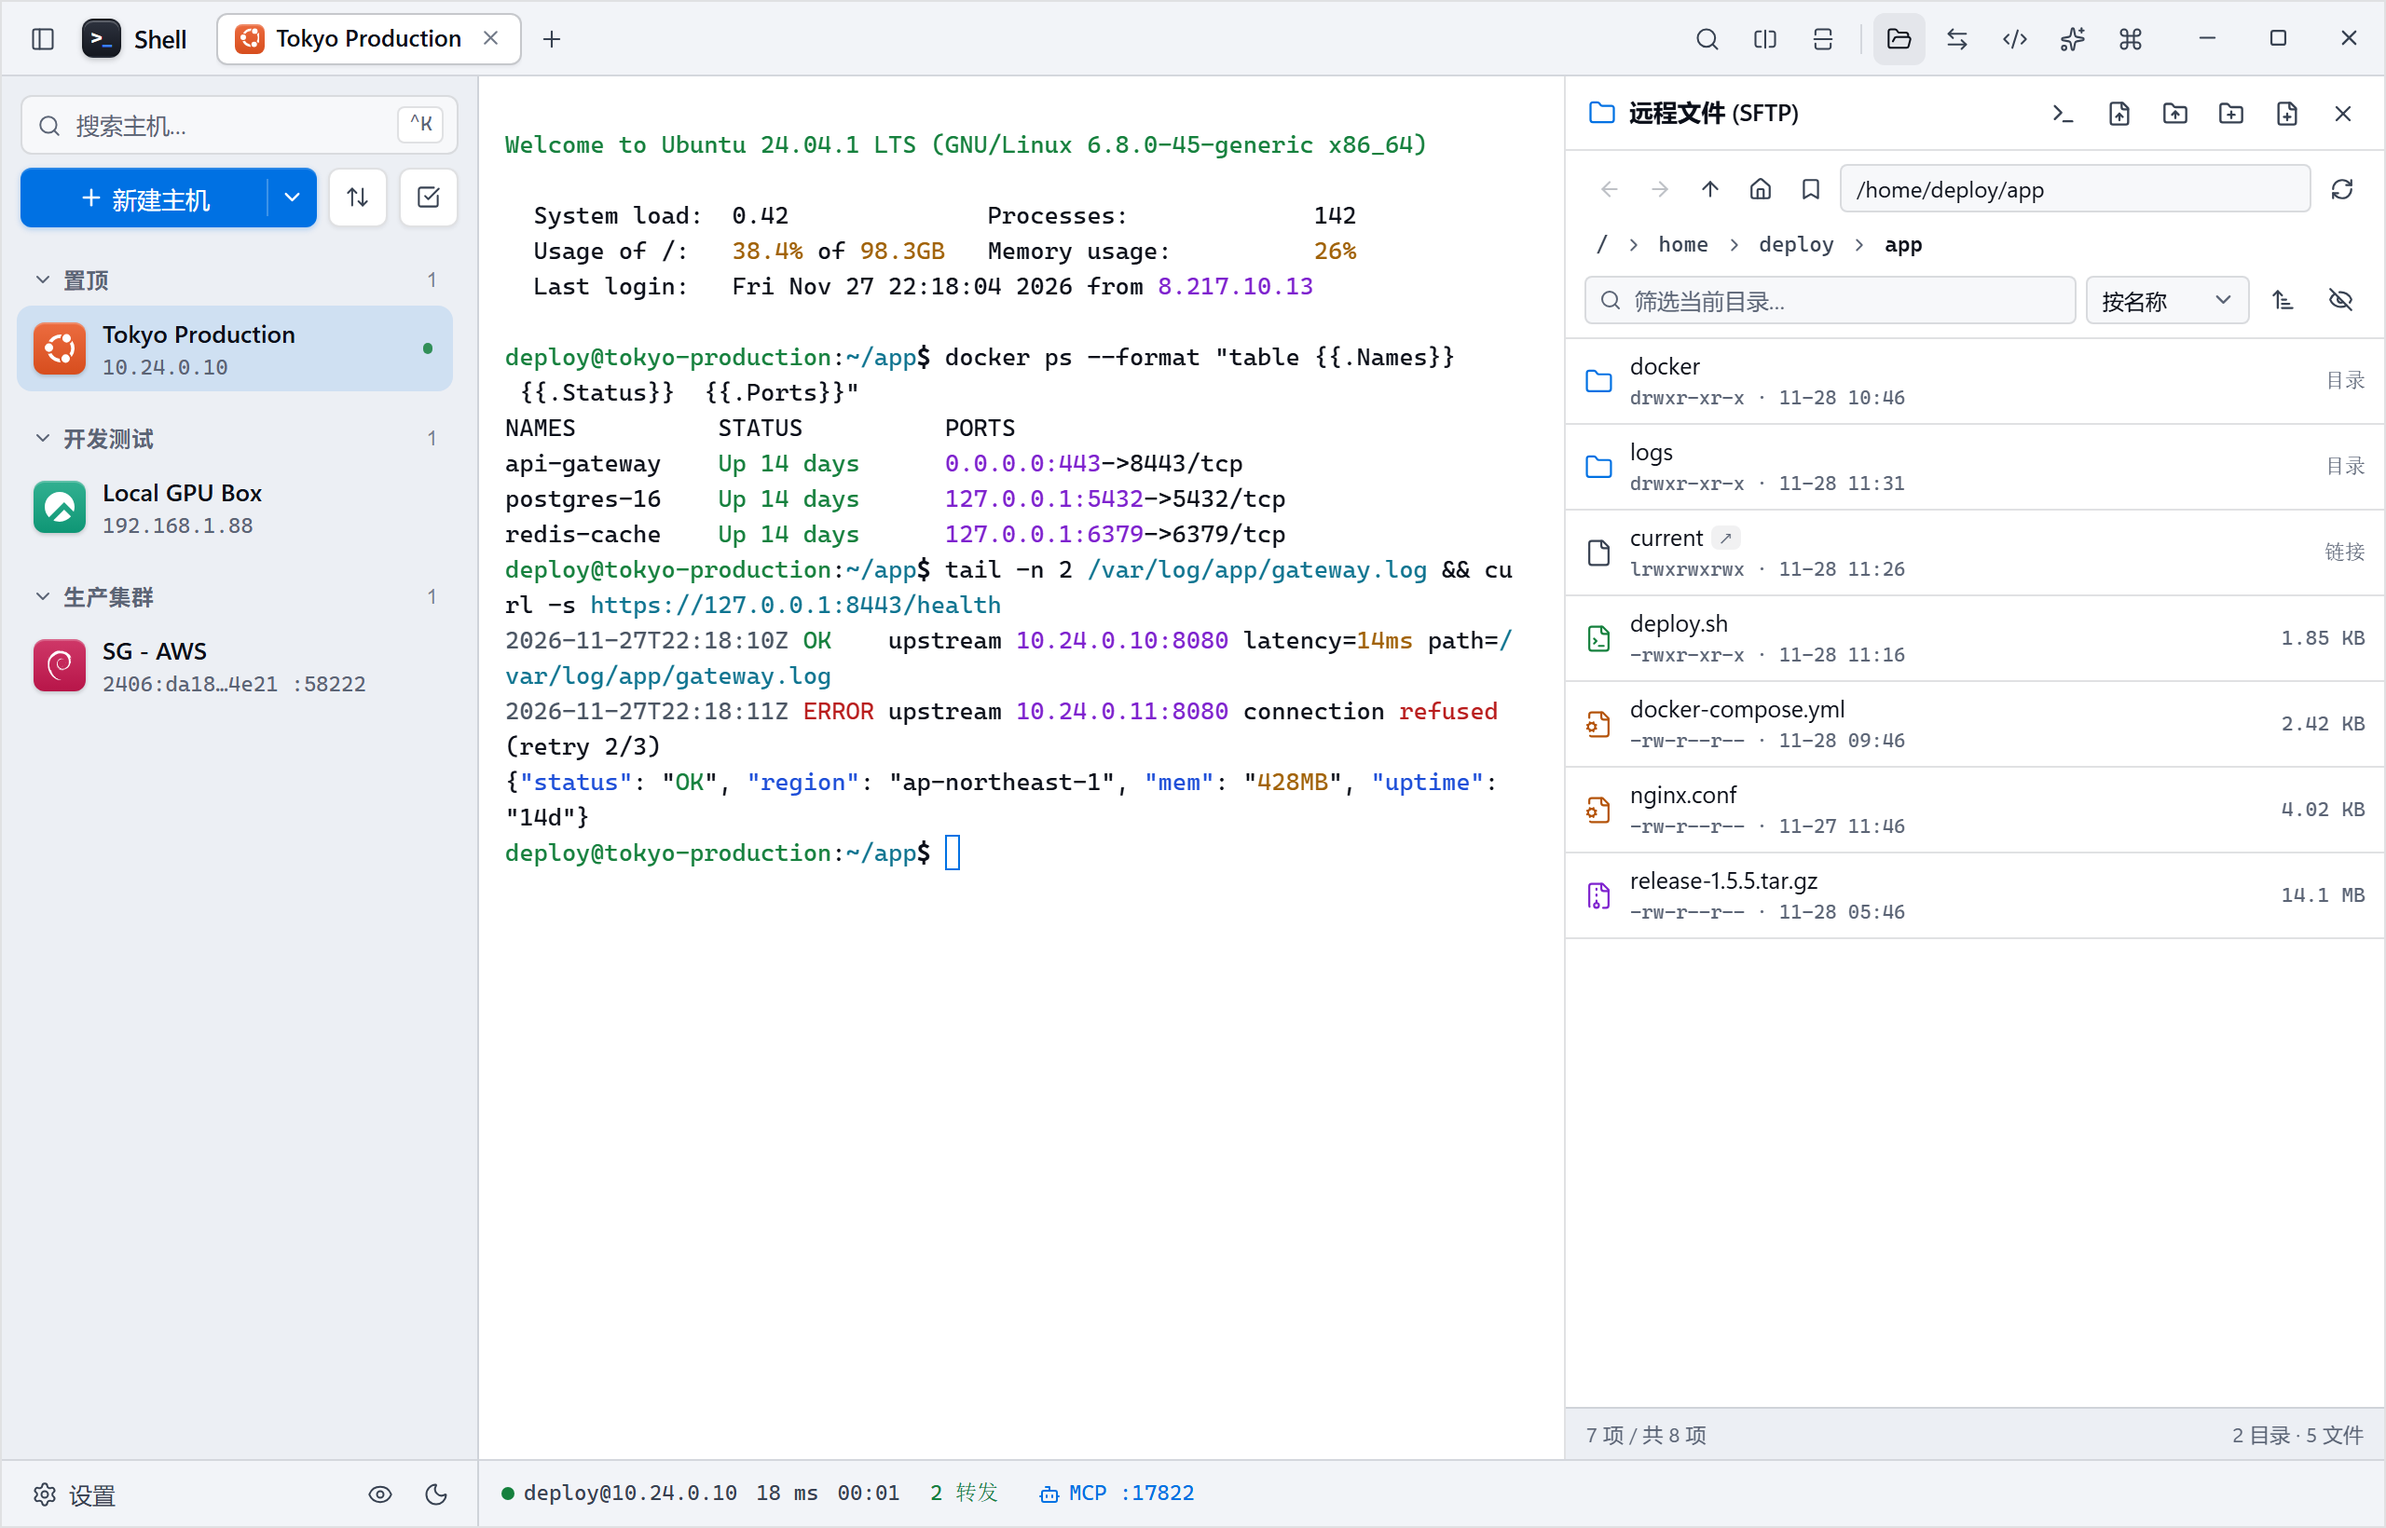
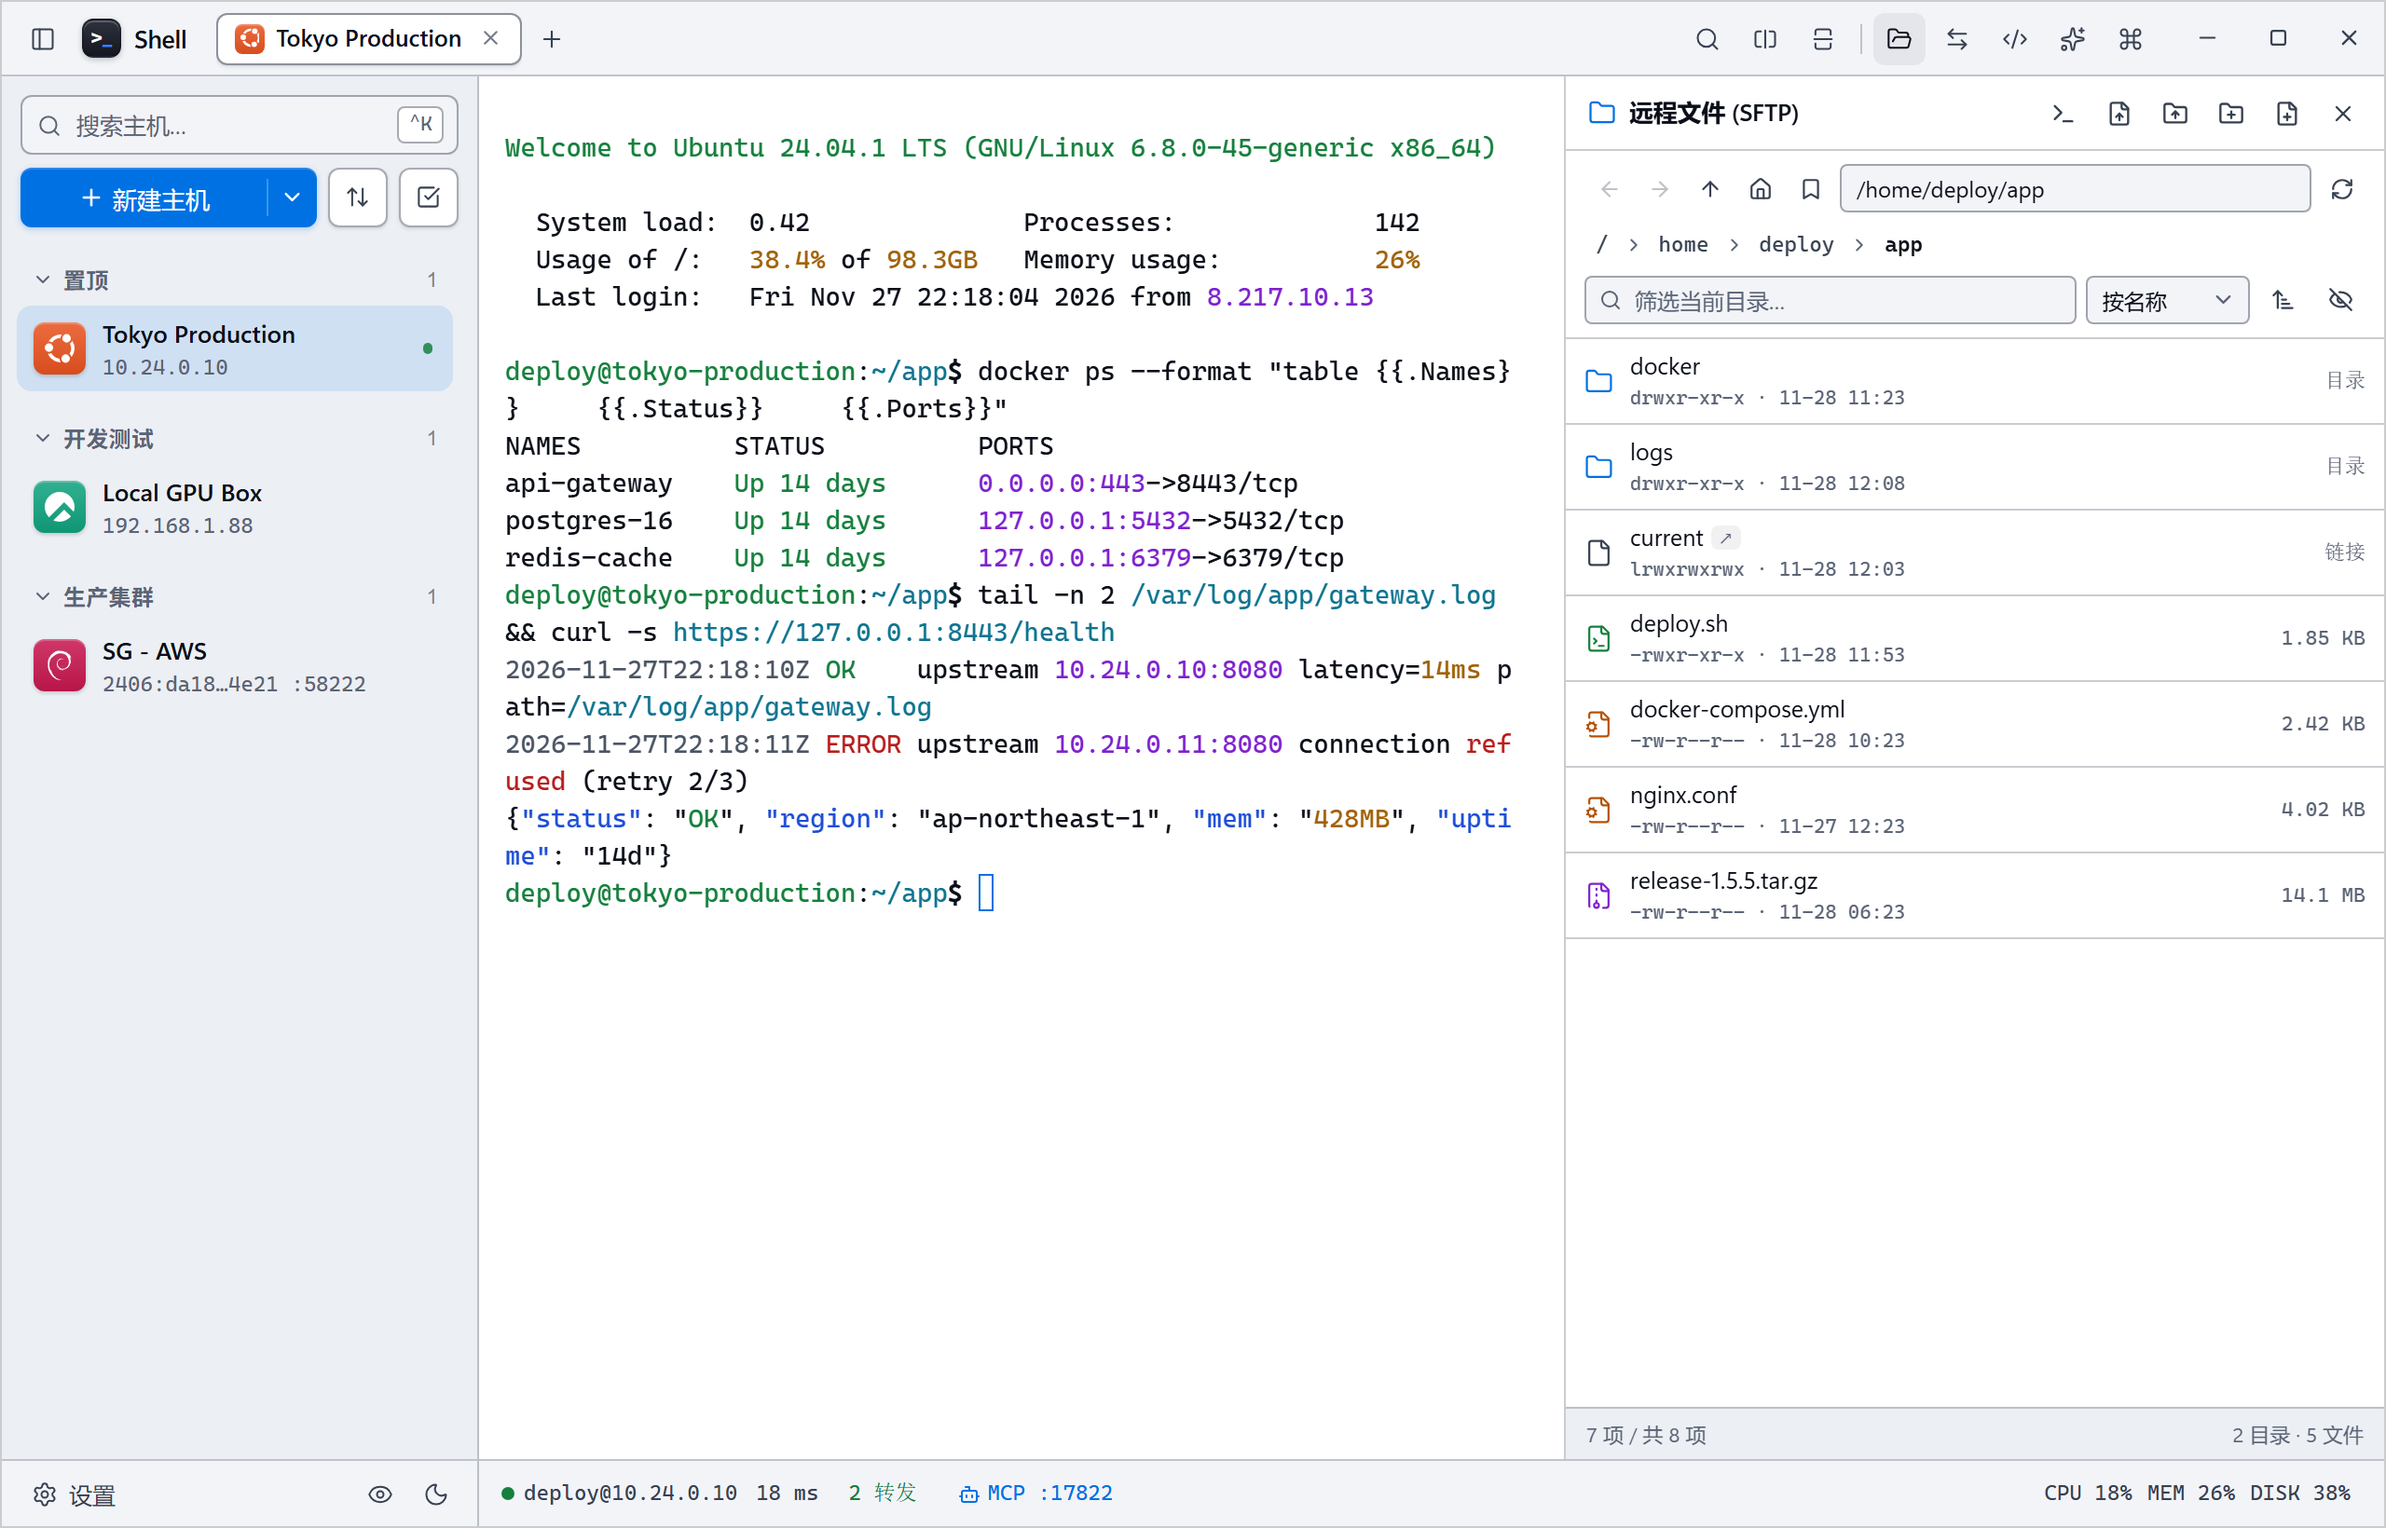
chore(release): 发布 v1.5.9
- 将前端版本与锁文件升级至 1.5.9 并补充 CHANGELOG.md 中文发布说明
- 使用 v1.5.9 最新实机渲染截图刷新 docs/images 预览图

diff --git a/CHANGELOG.md b/CHANGELOG.md
@@ -2,6 +2,15 @@
 
 本项目的版本变更遵循 [语义化版本 2.0.0](https://semver.org/lang/zh-CN/) 规范。
 
+## [1.5.9] - 2026-11-28
+
+### 界面可读性、分屏焦点与状态栏升级
+- **四级强光高可读框线与表面边缘高光系统**：在全部五套全局配色下建立 `--border-hairline` / `--border-control` / `--border-strong` / `--border-focus` 四级框线层级与 `--surface-rim` 顶部微高光，关键交互控件、卡片、弹窗、SFTP 与远端编辑器边框全面升级至满足 WCAG 1.4.11 3:1 非文本对比度要求，白天强光环境下层次依旧清晰锐利。
+- **修复分屏聚焦顶部异常蓝色线条**：移除多窗分屏容器上易被裁切的顶部蓝色描边，改用当前激活分屏顶栏高亮、非激活分屏终端柔和降亮（`opacity: 0.72`）以及清晰的 `1px` 分屏分割线（`5px` 拖拽热区，悬停高亮为 `2px` 品牌色），多窗焦点状态一目了然。
+- **默认终端字号校准为 `14 px`**：将前后端默认终端字号统一调整为更舒适耐看的 `14 px`。
+- **精简状态栏与零开销监控增强**：移除底部状态栏冗余的连接时长计时与每秒定时器以消除无效重绘；为往返延迟（`≥250 ms` / `≥600 ms`）以及 CPU / 内存 / 磁盘（`≥70%` / `≥85%`）补充高负载状态色提示；在现有监控采集脚本零额外进程开销的前提下，于性能详情浮层新增 Swap 使用率进度条与系统进程总数展示。
+- **标签栏 `+` 按钮直达分组命令面板**：点击标签栏右侧 `+` 按钮改为直接唤起命令面板；重构面板分组顺序与智能排序（置顶与最近使用服务器优先展示，紧随「新建 SSH 主机」与常用操作且不再被截断），新增清晰分组标题、右侧快捷键徽标与键盘上下键自动滚动跟随。
+
 ## [1.5.8] - 2026-11-28
 
 ### 核心 SSH 引擎与连接可靠性升级
